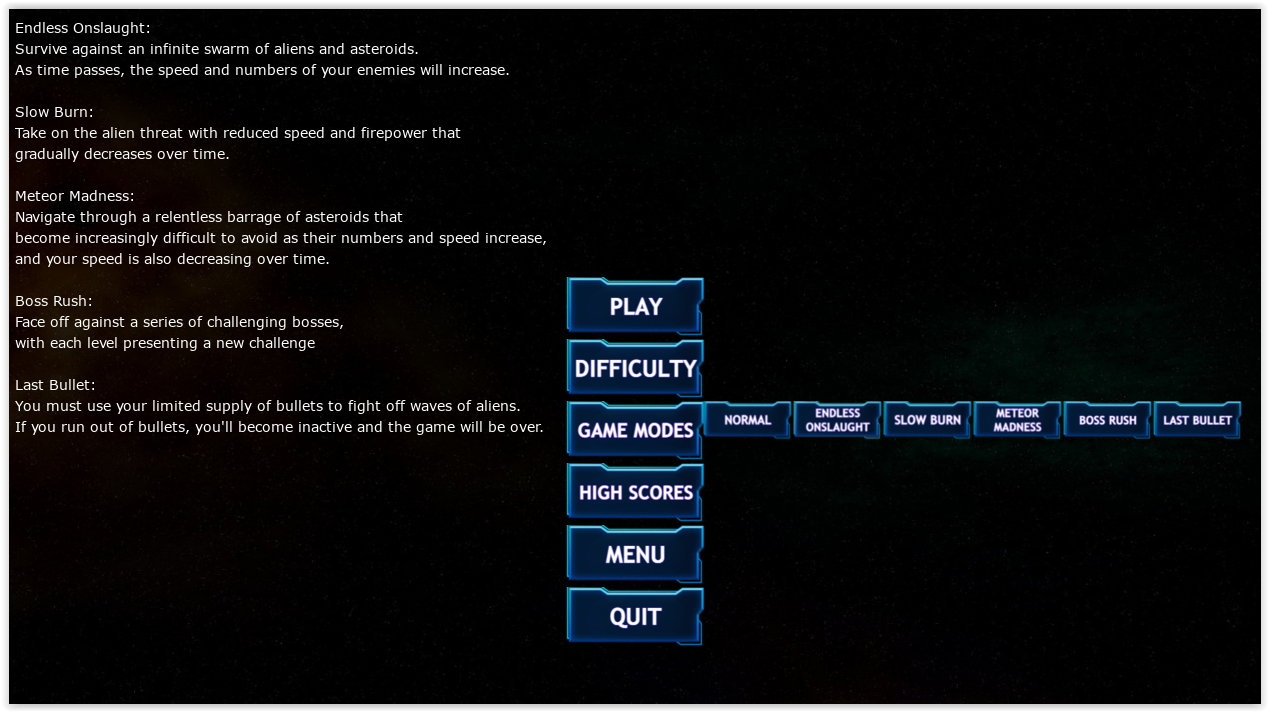
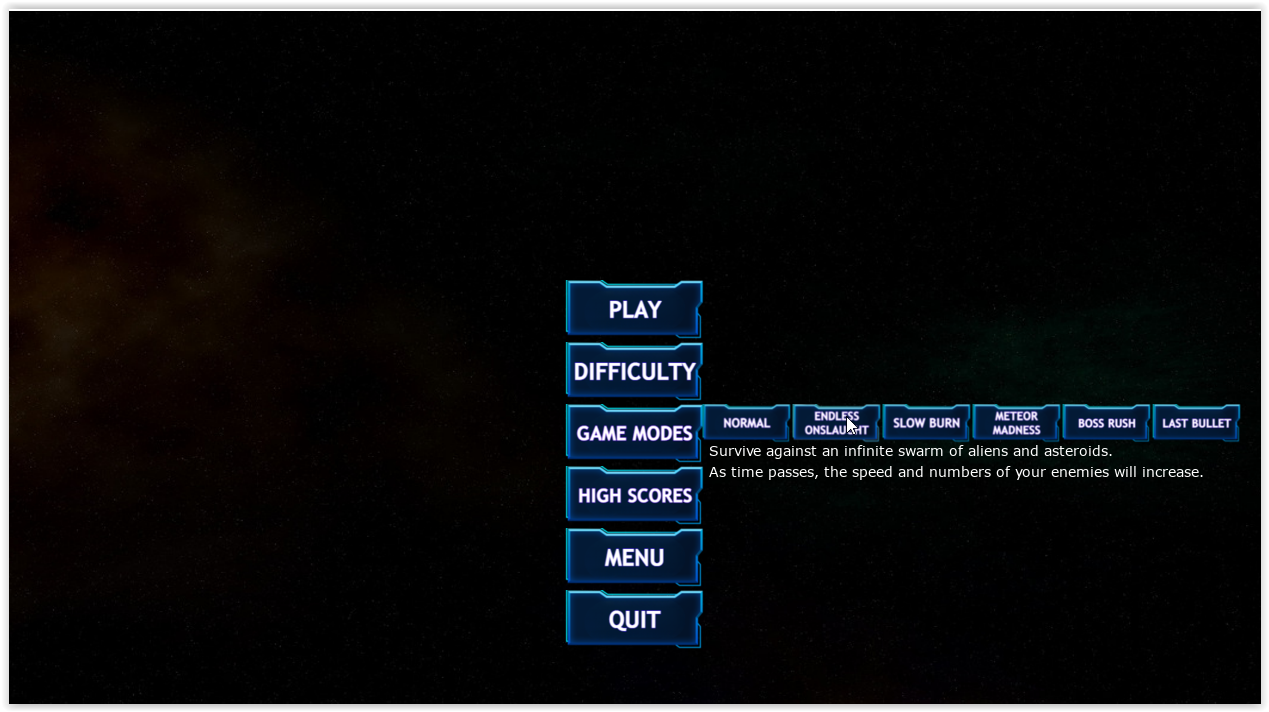
game modes description update

diff --git a/ui/game_buttons.py b/ui/game_buttons.py
@@ -5,17 +5,21 @@ the buttons and displays the controls used in the game.
 import sys
 import pygame
 
-from utils.constants import BUTTON_NAMES, GAME_MODE_SCORE_KEYS, DIFFICULTIES
-from utils.game_utils import load_button_imgs, display_controls
+from utils.constants import (
+    BUTTON_NAMES, GAME_MODE_SCORE_KEYS,
+    DIFFICULTIES, GAME_MODES_DESCRIPTIONS
+)
+from utils.game_utils import load_button_imgs, display_controls, display_game_modes_description
 
 
 class Button:
     """A class that manages the button"""
-    def __init__(self, game, image_loc, pos, center=False):
+    def __init__(self, game, image_loc, pos, description='', center=False):
         """Initialize button attributes."""
         self.screen = game.screen
         self.screen_rect = self.screen.get_rect()
         self.visible = False  # variable used for buttons that need to be visible
+        self.description = description
 
         # Load button image and scale it to the desired size.
         self.image = pygame.image.load(image_loc)
@@ -42,12 +46,17 @@ class Button:
         """Draws the button if it is visible."""
         self.screen.blit(self.image, self.rect)
 
+    def show_button_info(self):
+        """Display the information about the button on the screen.
+        This method is mainly used for displaying the description for the game modes.
+        """
+        display_game_modes_description(self.screen, self.description)
 
 
 class GameButtons:
     """This class creates the buttons for the game.
     Contains the methods for handling every button action, 
-    and displays the controls in the game menu"""
+    and displays the controls in the game menu."""
     def __init__(self, game, screen, ui_options, gm_options):
         self.screen = screen
         self.game = game
@@ -62,43 +71,73 @@ class GameButtons:
         self._create_menu_buttons()
 
     def _create_game_buttons(self):
-        """Create buttons for the game"""
-        self.play = Button(self, self.button_imgs["play_button"],(0, 0), center=True)
+        """Create buttons for the game menu."""
+        self.play = Button(self, self.button_imgs["play_button"], (0, 0), center=True)
+        # Difficulty buttons
         self.difficulty = Button(self, self.button_imgs["difficulty"],
-                            (self.play.rect.centerx - 74, self.play.rect.bottom))
+                                 (self.play.rect.centerx - 74, self.play.rect.bottom))
+        self.easy = Button(self, self.button_imgs['easy'],
+                           (self.difficulty.rect.right - 10, self.difficulty.rect.y))
+        self.medium = Button(self, self.button_imgs['medium'],
+                             (self.easy.rect.right - 5, self.easy.rect.y))
+        self.hard = Button(self, self.button_imgs['hard'],
+                           (self.medium.rect.right - 5, self.medium.rect.y))
+
+        # Game mode buttons
         self.game_modes = Button(self, self.button_imgs["game_modes"],
-                            (self.difficulty.rect.centerx - 74, self.difficulty.rect.bottom))
+                                 (self.difficulty.rect.centerx - 74, self.difficulty.rect.bottom))
         self.normal = Button(self, self.button_imgs["normal"],
-                            (self.game_modes.rect.right - 10, self.game_modes.rect.y))
+                             (self.game_modes.rect.right - 10,
+                              self.game_modes.rect.y),
+                              GAME_MODES_DESCRIPTIONS[0])
         self.endless = Button(self, self.button_imgs["endless"],
-                            (self.normal.rect.right - 5, self.normal.rect.y))
+                              (self.normal.rect.right - 5,
+                               self.normal.rect.y),
+                               GAME_MODES_DESCRIPTIONS[1])
         self.slow_burn = Button(self, self.button_imgs["slow_burn"],
-                            (self.endless.rect.right - 5, self.endless.rect.y))
+                                (self.endless.rect.right - 5,
+                                 self.endless.rect.y),
+                                 GAME_MODES_DESCRIPTIONS[2])
         self.meteor_madness = Button(self, self.button_imgs['meteor_madness'],
-                            (self.slow_burn.rect.right - 5, self.slow_burn.rect.y))
+                                     (self.slow_burn.rect.right - 5,
+                                      self.slow_burn.rect.y),
+                                      GAME_MODES_DESCRIPTIONS[3])
         self.boss_rush = Button(self, self.button_imgs['boss_rush'],
-                            (self.meteor_madness.rect.right - 5, self.meteor_madness.rect.y))
+                                (self.meteor_madness.rect.right - 5,
+                                 self.meteor_madness.rect.y),
+                                 GAME_MODES_DESCRIPTIONS[4])
         self.last_bullet = Button(self, self.button_imgs['last_bullet'],
-                            (self.boss_rush.rect.right - 5, self.boss_rush.rect.y))
+                                  (self.boss_rush.rect.right - 5,
+                                   self.boss_rush.rect.y),
+                                   GAME_MODES_DESCRIPTIONS[5])
+
+        # High scores and other menu buttons
         self.high_scores = Button(self, self.button_imgs['high_scores'],
-                            (self.game_modes.rect.centerx - 74, self.game_modes.rect.bottom))
+                                  (self.game_modes.rect.centerx - 74, self.game_modes.rect.bottom))
         self.delete_scores = Button(self, self.button_imgs['delete_scores'],
-                            (self.high_scores.rect.right - 10, self.high_scores.rect.y))
+                                    (self.high_scores.rect.right - 10, self.high_scores.rect.y))
         self.menu = Button(self, self.button_imgs["menu_button"],
-                            (self.high_scores.rect.centerx - 74, self.high_scores.rect.bottom))
+                           (self.high_scores.rect.centerx - 74, self.high_scores.rect.bottom))
         self.quit = Button(self, self.button_imgs["quit_button"],
-                            (self.menu.rect.centerx - 74, self.menu.rect.bottom))
-        self.easy = Button(self, self.button_imgs['easy'], (self.difficulty.rect.right - 10,
-                                                            self.difficulty.rect.y))
-        self.medium = Button(self, self.button_imgs['medium'], (self.easy.rect.right - 5,
-                                                            self.easy.rect.y))
-        self.hard = Button(self, self.button_imgs['hard'], (self.medium.rect.right - 5,
-                                                            self.medium.rect.y))
+                           (self.menu.rect.centerx - 74, self.menu.rect.bottom))
+
+        # Lists containing the game buttons, difficulty buttons and game mode buttons
         self.game_buttons = [self.play, self.quit, self.menu, self.difficulty, self.high_scores,
-                            self.game_modes]
+                             self.game_modes]
         self.difficulty_buttons = [self.easy, self.medium, self.hard]
         self.game_mode_buttons = [self.endless, self.normal, self.slow_burn, self.meteor_madness,
-                                self.boss_rush, self.last_bullet]
+                                  self.boss_rush, self.last_bullet]
+
+    def display_description(self):
+        """Display the description of the game mode button currently
+        hovered over by the mouse cursor."""
+        for button in self.game_mode_buttons:
+            # Create a smaller rectangle for collision detection
+            # to avoid triggering for adjacent buttons
+            collision_rect = button.rect.inflate(-10, -10)
+            if collision_rect.collidepoint(pygame.mouse.get_pos()):
+                button.show_button_info()
+
 
     def draw_difficulty_buttons(self):
         """Draw difficulty buttons on screen."""
@@ -109,6 +148,7 @@ class GameButtons:
         """Draw game mode buttons on screen."""
         for button in self.game_mode_buttons:
             button.draw_button()
+        self.display_description()
 
     def draw_buttons(self):
         """Draw buttons on screen."""
@@ -116,12 +156,12 @@ class GameButtons:
             button.draw_button()
 
     def _create_menu_buttons(self):
-        """Create the buttons for the game menu"""
+        """Create the buttons for the main menu."""
         self.single = Button(self, self.button_imgs["single_player"], (0, 0), center=True)
         self.multi = Button(self, self.button_imgs["multiplayer"],
                             (self.single.rect.centerx - 100, self.single.rect.bottom))
         self.menu_quit = Button(self, self.button_imgs["menu_quit_button"],
-                            (self.multi.rect.centerx - 100, self.multi.rect.bottom))
+                                (self.multi.rect.centerx - 100, self.multi.rect.bottom))
 
     def handle_buttons_visibility(self):
         """Handle the visibility of buttons based on the current ui options."""

diff --git a/utils/constants.py b/utils/constants.py
@@ -19,23 +19,31 @@ P2_CONTROLS = ("Phoenix controls:\n"
                 "Pause: P")
 
 
-GAME_MODES_DESCRIPTION = ("Endless Onslaught:\n"
+GAME_MODES_DESCRIPTIONS = (
+    # Normal
+    "Engage in an intense battle against waves of aliens, asteroids and also\n"
+    "boss battles, with a standard set of firepower and speed.\n"
+    "As you progress, the enemies will become more challenging but,\n"
+    "you'll have the opportunity to power up your weapons and defenses.\n\n"
+    # Endless Onslaught
     "Survive against an infinite swarm of aliens and asteroids.\n"
     "As time passes, the speed and numbers of your enemies will increase.\n\n"
-    "Slow Burn:\n"
-    "Take on the alien threat with reduced speed and firepower that\n"
-    "gradually decreases over time.\n\n"
-    "Meteor Madness:\n"
-    "Navigate through a relentless barrage of asteroids that\n"
-    "become increasingly difficult to avoid as their numbers and speed increase,\n" 
+    # Slow Burn
+    "Take on the alien threat with reduced speed and firepower that gradually\n"
+    "decreases over time.\n\n"
+    # Meteor Madness
+    "Navigate through a relentless barrage of asteroids that become\n"
+    "increasingly difficult to avoid as their numbers and speed increase,\n" 
     "and your speed is also decreasing over time.\n\n"
-    "Boss Rush:\n"
-    "Face off against a series of challenging bosses,\n"
-    "with each level presenting a new challenge\n\n"
-    "Last Bullet:\n"
+    # Boss Rush
+    "Face off against a series of challenging bosses with each level presenting\n"
+    "a new challenge.\n\n"
+    # Last Bullet
     "You must use your limited supply of bullets to fight off waves of aliens.\n"
     "If you run out of bullets, you'll become inactive and the game will be over."
 )
+
+GAME_MODES_DESCRIPTIONS = GAME_MODES_DESCRIPTIONS.split('\n\n')
 
 
 # Player2 controls

diff --git a/alien_onslaught_v2.9.py b/alien_onslaught_v2.9.py
@@ -16,11 +16,7 @@ from game_logic.input_handling import PlayerInput
 from game_logic.game_modes import GameModesManager
 from sounds.sounds_manager import SoundManager
 
-from utils.game_utils import (
-    display_high_scores, resize_image,
-    display_game_modes_description,
-    play_sound
-)
+from utils.game_utils import display_high_scores, resize_image, play_sound
 from utils.constants import (
     GAME_CONSTANTS, BOSS_LEVELS, AVAILABLE_BULLETS_MAP,
     AVAILABLE_BULLETS_MAP_SINGLE, GAME_MODE_SCORE_KEYS
@@ -305,14 +301,6 @@ class AlienOnslaught:
             pygame.display.set_mode((info.current_w, info.current_h))
             self.ui_options.resizable = False
 
-    def kill_players(self):
-        self.stats.thunderbird_hp -= 4
-        self.stats.phoenix_hp -=4
-
-    def kill_aliens(self):
-        for alien in self.aliens:
-            alien.kill()
-
     def _handle_background_change(self):
         """Change the background image based on the current level."""
         bg_images = {
@@ -583,7 +571,7 @@ class AlienOnslaught:
             ship.update_missiles_number()
         # reset player weapons
         self.bullets_manager.reset_weapons()
-
+        # play warp sound
         play_sound(self.sound_manager.game_sounds, 'warp')
 
     def _display_pause(self):
@@ -708,7 +696,6 @@ class AlienOnslaught:
 
             if self.ui_options.show_game_modes:
                 self.buttons.draw_game_mode_buttons()
-                display_game_modes_description(self.screen)
 
         pygame.display.flip()
 

diff --git a/utils/game_utils.py b/utils/game_utils.py
@@ -7,7 +7,6 @@ import pygame
 from .constants import (
     P1_CONTROLS, P2_CONTROLS,
     BOSS_RUSH, ALIEN_BULLETS_IMG,
-    GAME_MODES_DESCRIPTION,
 )
 
 
@@ -197,14 +196,14 @@ def display_high_scores(game, screen, score_key):
             screen.blit(surface, rect)
 
 
-def display_game_modes_description(screen):
+def display_game_modes_description(screen, description):
     """Render game modes description on screen."""
-    _, screen_height = screen.get_size()
+    screen_width, screen_height = screen.get_size()
     font = pygame.font.SysFont('verdana', int(screen_height * 0.021))
-    text_x = 10
-    text_y = 10
+    text_x = int(screen_width * 0.56)
+    text_y = 430
     text_surfaces, text_rects = render_text(
-                        GAME_MODES_DESCRIPTION,
+                        description,
                         font,
                         'white',
                         (text_x, text_y),

diff --git a/README.md b/README.md
@@ -1,16 +1,17 @@
 ## Alien-Onslaught description:
-- Alien-Onslaught is an action-packed game that will test your shooting skills and reflexes. The game is set in outer space, where you must shoot fleets of aliens to reach higher levels and increase your high score. With each level, the game becomes more challenging as the aliens become stronger and faster, and more asteroids rain down from above.
+- Alien-Onslaught is an action-packed game that will test your shooting skills and reflexes. The game is set in outer space, where you must shoot fleets of aliens to reach higher levels and increase your high score. With each level, the game becomes more challenging as the aliens become stronger and faster bosses are starting to appear, and more asteroids rain down from above.
 
-- The game offers a range of game modes, including single-player and multiplayer modes, where you can choose to battle it out with friends or take on the aliens alone. In game you can also get a variety of ship power-ups, including increased speed, bullet speed, and bullets allowed, as well as shields that protect you from enemy fire. It also includes a high score system where players can compete with others for the top spot on the leaderboard, Boss Fights, and more other features.
+- The game offers a range of game modes (e.g.: Boss Rush, Endless Onslaught), including single-player and multiplayer modes, where you can choose to battle it out with friends or take on the aliens alone. In game you can also get a variety of ship power-ups, including increased speed, bullet speed, and bullets allowed, as well as shields that protect you from enemy fire. It also includes a high score system where players can compete with others for the top spot on the leaderboard, Boss Fights, and more other features.
 
 ## Game Images:
+# More images can be found [here](https://github.com/KhadaAke/Alien-Onslaught/tree/main/images/game_images)
 ![Menu](images/game_images/menu.PNG)
 ![Menu](images/game_images/menu2.PNG)
-![HighScores](/images/game_images/high_scores.PNG)
-![Menu](images/game_images/game_modes.PNG)
+![Gameplay](images/game_images/game_modes.PNG)
 ![Gameplay](images/game_images/normal.PNG)
 ![Gameplay](images/game_images/normal3.PNG)
 ![Gameplay](images/game_images/boss_fight.PNG)
+![HighScores](images/game_images/high_scores.PNG)
 
 ## Alien-Onslaught Changelog
 
@@ -122,3 +123,4 @@ the player's speed will decrease, adding an extra layer of challenge to the game
 * Removed the player position tracking feature from alien bullets because it was making the game less enjoyable.
 * Added new background music for the Boss Rush and Endless Onslaught game modes.
 * The intensity of the alien's firepower increases in correlation with the game level and/or selected difficulty.
+* Refactored the game modes display functionality to improve user experience. Instead of displaying the description for the game modes when the game modes button is clicked, the description for each game mode now appears when the user hovers the mouse over the corresponding button. 

diff --git a/images/game_images/README.md b/images/game_images/README.md
@@ -1,14 +1,14 @@
 ## Different Game Images:
-![Menu](/images/game_images/menu.png)
-![Menu](/images/game_images/menu2.png)
-![HighScores](/images/game_images/high_scores.png)
-![Gameplay](/images/game_images/normal.png)
-![Gameplay](/images/game_images/normal3.png)
-![Gameplay](/images/game_images/boss_fight.png)
-![Gameplay](/images/game_images/boss_fight2.png)
-![Gameplay](/images/game_images/endless.png)
-![Gameplay](/images/game_images/game_modes.png)
-![Gameplay](/images/game_images/game_over.png)
-![Gameplay](/images/game_images/last_bullet.png)
-![Gameplay](/images/game_images/meteor.png)
-![Gameplay](/images/game_images/normal2.png)
+![Menu](images/game_images/menu.PNG)
+![Menu](images/game_images/menu2.PNG)
+![HighScores](/images/game_images/high_scores.PNG)
+![Gameplay](images/game_images/game_modes.PNG)
+![Gameplay](images/game_images/normal.PNG)
+![Gameplay](images/game_images/normal3.PNG)
+![Gameplay](images/game_images/boss_fight.PNG)
+![Gameplay](images/game_images/boss_fight2.PNG)
+![Gameplay](images/game_images/endless.PNG)
+![Gameplay](images/game_images/game_over.PNG)
+![Gameplay](images/game_images/last_bullet.PNG)
+![Gameplay](images/game_images/meteor.PNG)
+![Gameplay](images/game_images/normal2.PNG)
